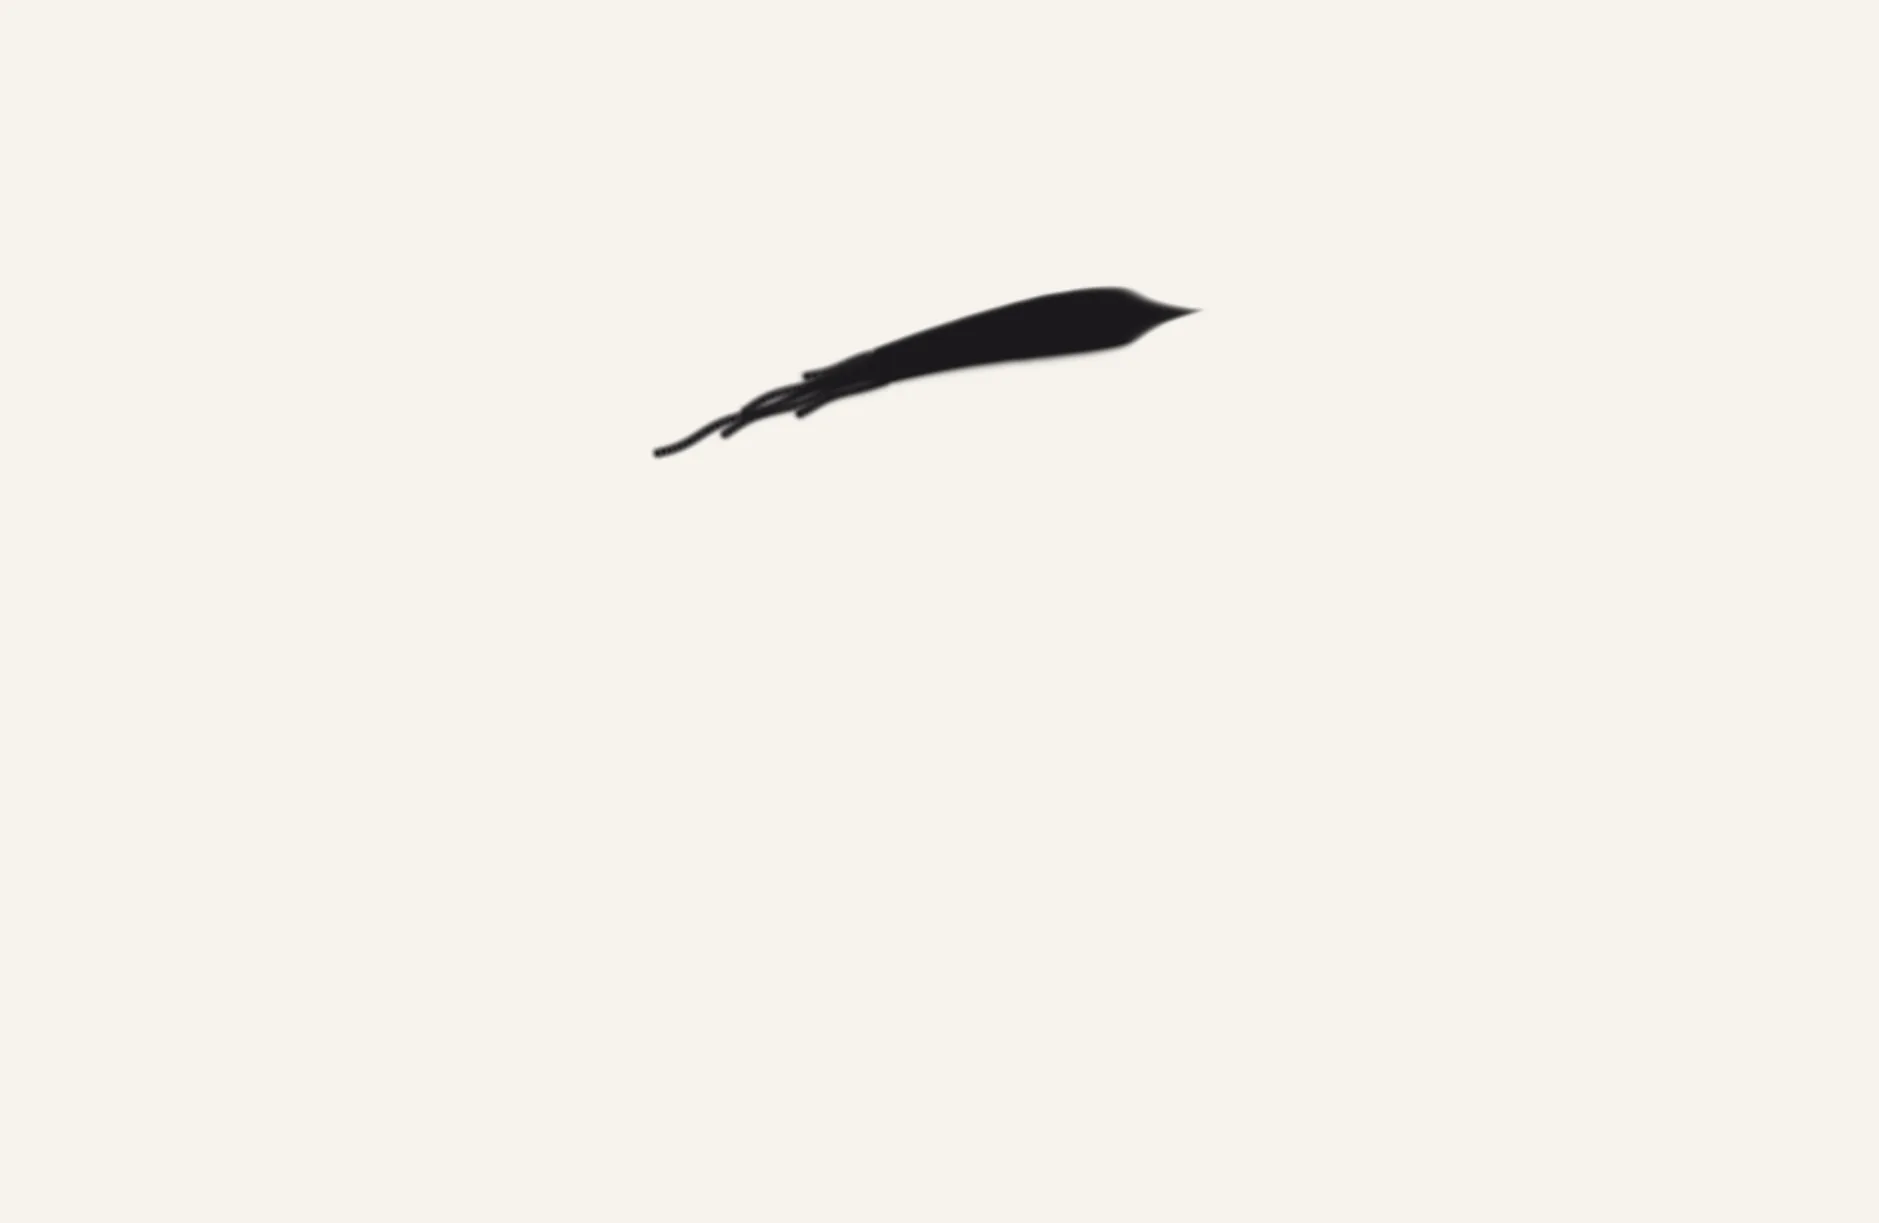
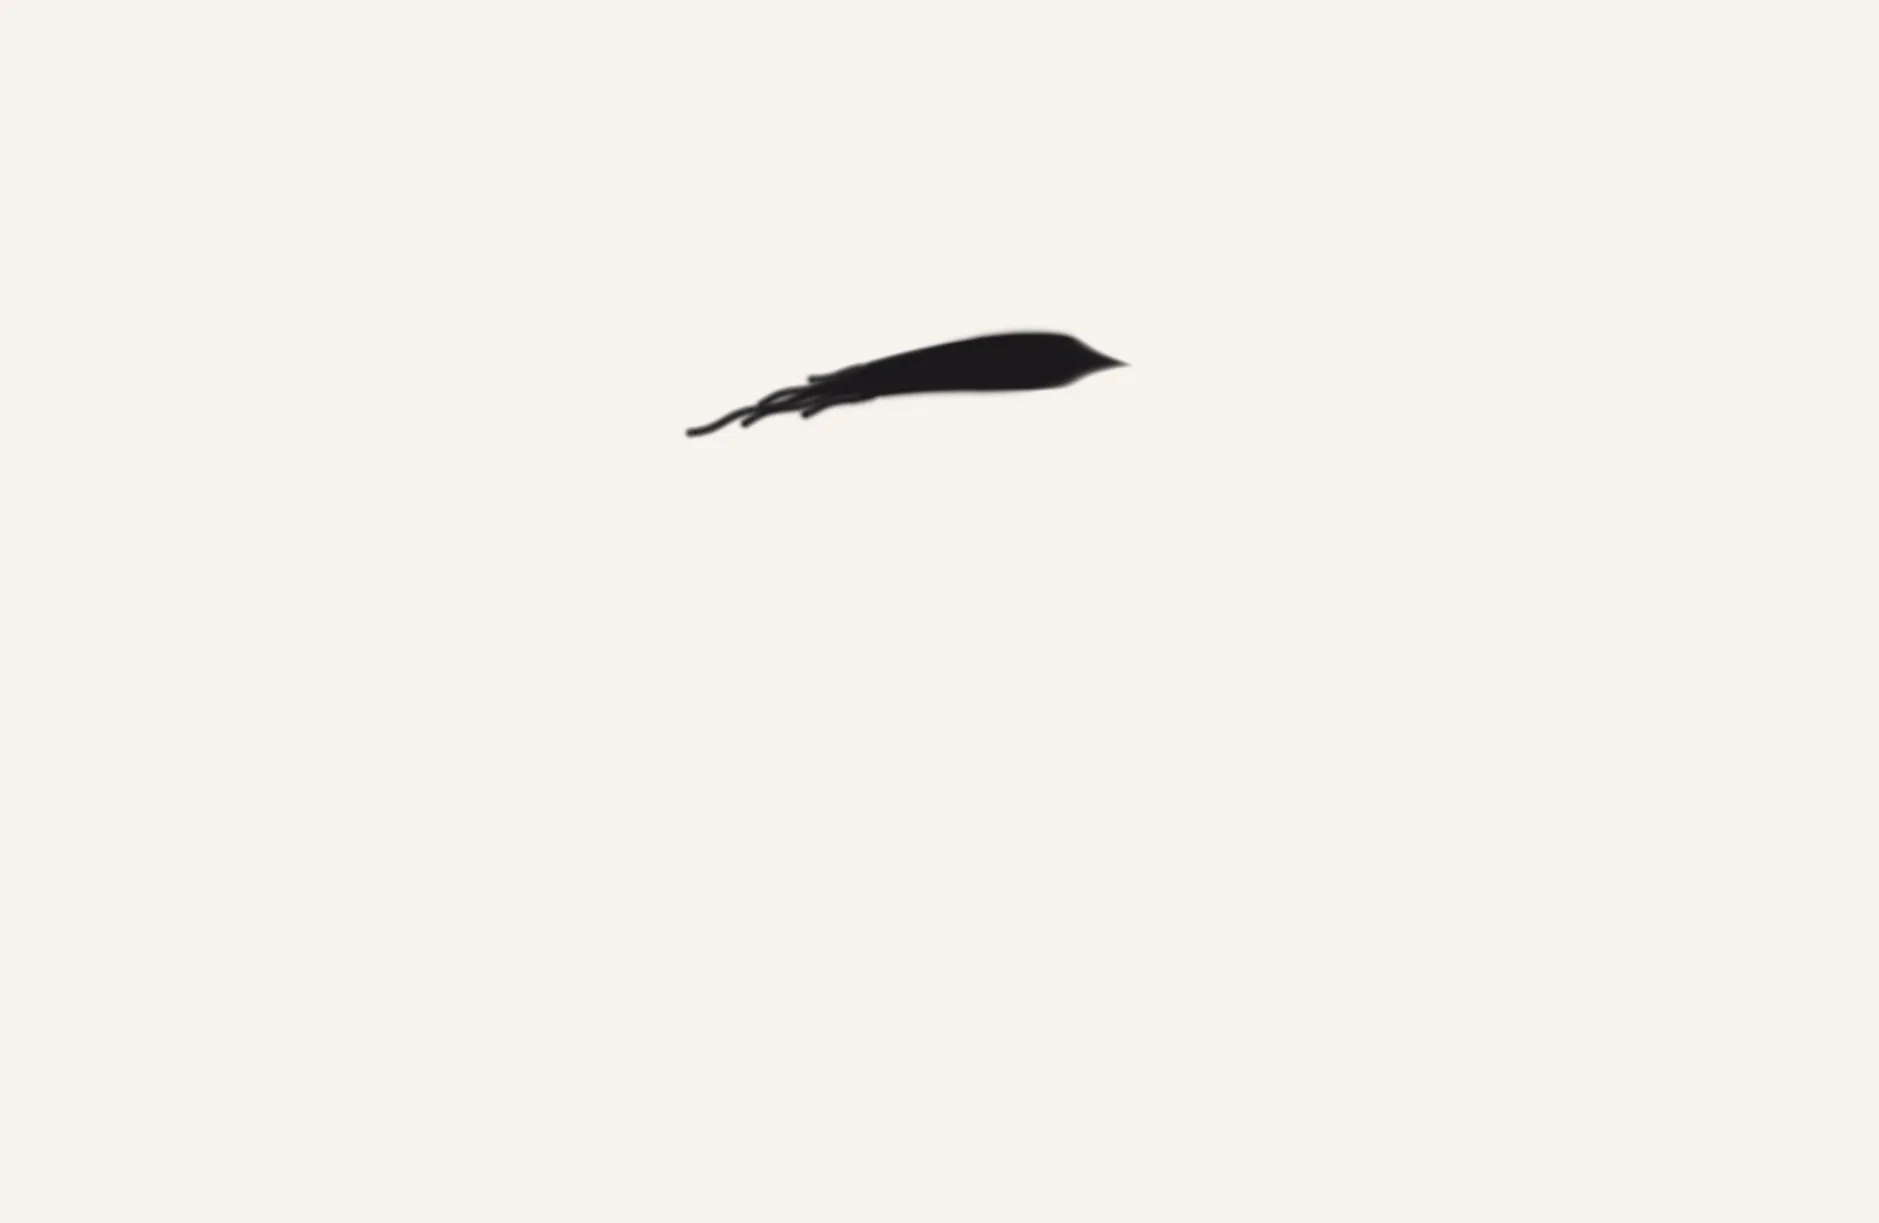
料紙: 一画の置き場所を画面の名乗りと言語の切り替えから決める（箱の比率だと窓の幅で上端に掛かった）

Changed region(s): [[0.3395, 0.2175, 0.6482, 0.3729]]

diff --git a/src/components/ink/InkHero.tsx b/src/components/ink/InkHero.tsx
@@ -84,17 +84,40 @@ export function InkHero() {
       seed = (seed * 16807) % 2147483647;
       return seed / 2147483647;
     };
-    /** 一画の点。k ∈ [0,1]。広い紙は紙の右上の内側（言語の切り替えの下）から名乗りの「AW」の上へ、
-        狭い紙は「AWA」の上を掠める */
-    const point = (k: number) => {
+    /**
+     * 一画の点。k ∈ [0,1]。箱は紙の幅から決まる大きな矩形（紙の右と上の外へ張り出す）なので、
+     * 箱の比率で置くと窓の幅ごとに違う所へ来る（1116px の窓で画面の上端に掛かり、棒に見えた）。
+     * だから【画面の上の名乗りと言語の切り替え】から決める:
+     *   入り … 紙の右端の少し内側、言語の切り替えの下
+     *   終わり … 名乗りの字の上端のすぐ上、広い紙は「AW」の上・狭い紙は「AWA」の上
+     * 画面の座標を箱の UV に写して splat する。
+     */
+    let geo = { x0: 0.68, y0: 0.75, x1: 0.35, y1: 0.63 };
+    const measure = () => {
+      const rect = canvas.getBoundingClientRect();
+      if (rect.width === 0 || rect.height === 0) return;
+      const vw = document.documentElement.clientWidth;
+      const h1 = box?.parentElement?.querySelector("h1");
+      const nav = box?.parentElement?.querySelector("nav");
+      const wordTop = h1 ? h1.getBoundingClientRect().top + window.scrollY : 190;
+      const navBottom = nav ? nav.getBoundingClientRect().bottom + window.scrollY : 48;
       const n = isNarrow();
-      const x = n ? 0.76 - 0.48 * k : 0.68 - 0.33 * k;
-      const y = n
-        ? 0.82 - 0.2 * k + 0.03 * Math.sin(k * Math.PI)
-        : 0.75 - 0.12 * k + 0.03 * Math.sin(k * Math.PI);
-      return { x, y };
+      const top = rect.top + window.scrollY;
+      const pxX0 = n ? vw - 18 : vw - 36;
+      const pxX1 = n ? vw * 0.42 : vw * 0.62;
+      // 入りの太さ（半径 ≒ 0.02 × 箱の高さ）のぶん、切り替えから離す
+      const pxY0 = Math.max(navBottom + (n ? 18 : 0.025 * rect.height + 8), top + 4);
+      const pxY1 = Math.max(pxY0 + (n ? 40 : 60), wordTop - (n ? 4 : 8));
+      const toU = (px: number) => (px - rect.left) / rect.width;
+      const toV = (py: number) => 1 - (py - top) / rect.height;
+      geo = { x0: toU(pxX0), y0: toV(pxY0), x1: toU(pxX1), y1: toV(pxY1) };
+    };
+    const point = (k: number) => {
+      const bow = 0.028 * Math.sin(k * Math.PI);
+      return { x: geo.x0 + (geo.x1 - geo.x0) * k, y: geo.y0 + (geo.y1 - geo.y0) * k + bow };
     };
     const beginStroke = (delayMs: number) => {
+      measure();
       t0 = performance.now() + delayMs;
       stepped = 0;
       drawn = 0;
@@ -120,7 +143,7 @@ export function InkHero() {
         // 筆圧: 入り（k≈0.12）で最も太く、終わりへ向けて 0.25 倍まで細る
         const attack = Math.min(1, k / 0.12);
         const taper = 1 - 0.75 * Math.max(0, (k - 0.12) / 0.88);
-        const press = (narrow ? 0.0035 + 0.012 : 0.005 + 0.017) * attack * taper;
+        const press = (narrow ? 0.0035 + 0.011 : 0.005 + 0.015) * attack * taper;
         const dx = x - lastX;
         const dy = y - lastY;
         const len = Math.hypot(dx, dy) || 1;
@@ -139,7 +162,7 @@ export function InkHero() {
             { off: -0.0095, end: 0.74, w: 0.22, ph: 5.3 },
           ];
           // 半径の下限は歩幅の 1.1 倍（下回ると毛が点線になる）
-          const floor = (narrow ? 0.52 : 0.35) / STEPS * 1.1;
+          const floor = (Math.hypot(geo.x1 - geo.x0, geo.y1 - geo.y0) / STEPS) * 1.1;
           for (const hair of hairs) {
             if (k > hair.end) continue;
             const life = 1 - (k - 0.62) / (hair.end - 0.62);

diff --git a/DESIGN.md b/DESIGN.md
@@ -211,7 +211,7 @@ Hina Mincho（大字だけ）と Shippori Mincho（400 / 500）の二書体を `
 
 - 部品は `src/components/ink/InkHero.tsx`。入りの一筆の箱（`.stroke`）の中に、写真の墨と同じ寸法で canvas を置き、`mix-blend-mode: darken` で紙に乗せる（水盤の地 #F6F3ED は料紙 #F6F3EB より青が 2 明るいので、紙は紙のまま墨だけが残る）
 - 起動できた紙だけ箱に `data-live="on"` が付き、写真の墨は退く。**reduced-motion と WebGL2 の無い紙、分類のページ、作品ページは写真の墨** ── その写真は、生きた一画を引き終えた姿を焼いた一枚（`scripts/bake-ink.mjs` → `public/ink/stroke-still-{wide,narrow}.webp`。本番ビルドを立てて焼く）。**一画の形を変えたら焼き直す**。結びの掠れ（`.trace`）も同じ一枚の尾
-- 一画の形: 筆圧は入り（k≈0.12）で最も太く、終わりへ 0.25 倍まで細る。k &gt; 0.62 で筆の毛が五本に割れ、それぞれ決まった所（k 0.74〜1.0）で紙を離れる。毛の半径は歩幅の 1.1 倍を下回らせない（下回ると点線になる）。速度は (1−k)² で消す（終点に塊を作らない）。広い紙は x 0.68 → 0.35・y 0.75 → 0.63、狭い紙（箱 700px 未満）は x 0.76 → 0.28・y 0.82 → 0.62（「AWA」の上を掠める）
+- 一画の形: 筆圧は入り（k≈0.12）で最も太く、終わりへ 0.25 倍まで細る。k &gt; 0.62 で筆の毛が五本に割れ、それぞれ決まった所（k 0.74〜1.0）で紙を離れる。毛の半径は歩幅の 1.1 倍を下回らせない（下回ると点線になる）。速度は (1−k)² で消す（終点に塊を作らない）。置き場所は箱の比率ではなく【画面の名乗りと言語の切り替え】から決める（箱は紙の幅から決まる大きな矩形で、比率で置くと窓の幅ごとに違う所へ来る ── 1116px の窓で上端に掛かり、棒に見えた）: 入りは紙の右端の内側・切り替えの下（入りの太さぶん離す）、終わりは名乗りの字の上端の直上で、広い紙は x 62%・狭い紙は 42% の所（「AW」「AWA」の上）
 - 歩みは経過時間で数え、まとめて進めるときは一歩ごとに水を 1/120 秒進める（間引かれた rAF でも点線にならない）
 - 手が効く範囲は、入口の 1 行目の上端より上だけ（行の上では湿りが動く。二つ同時に動かさない）。指のタップは小さな渦を一つ置く。手の力は弱く（0.3）
 - 解像度は半分（resStep 1・DPR 1）。画面の外・隠れたタブ・乾ききったあとは rAF を止め、手で起きる。遅いフレームが 45 回続いたら一段落とす
